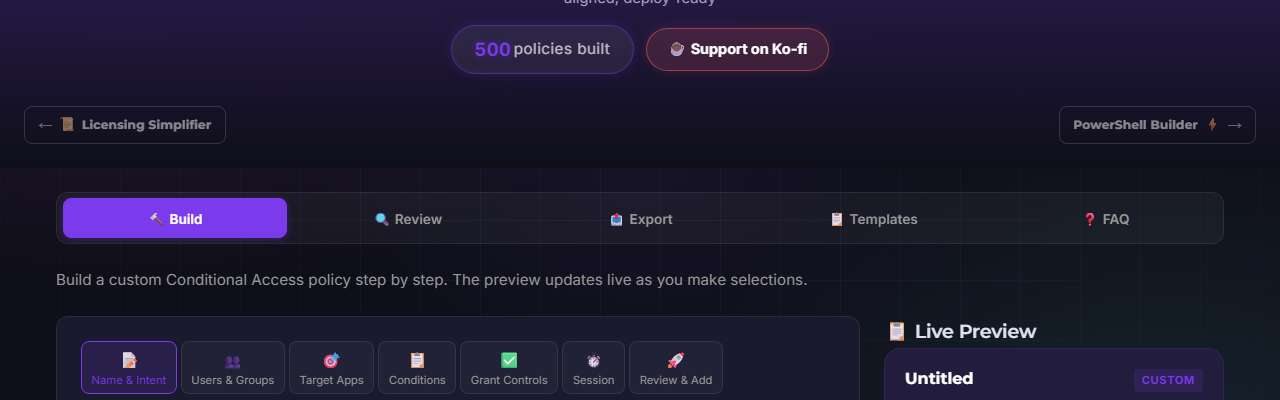
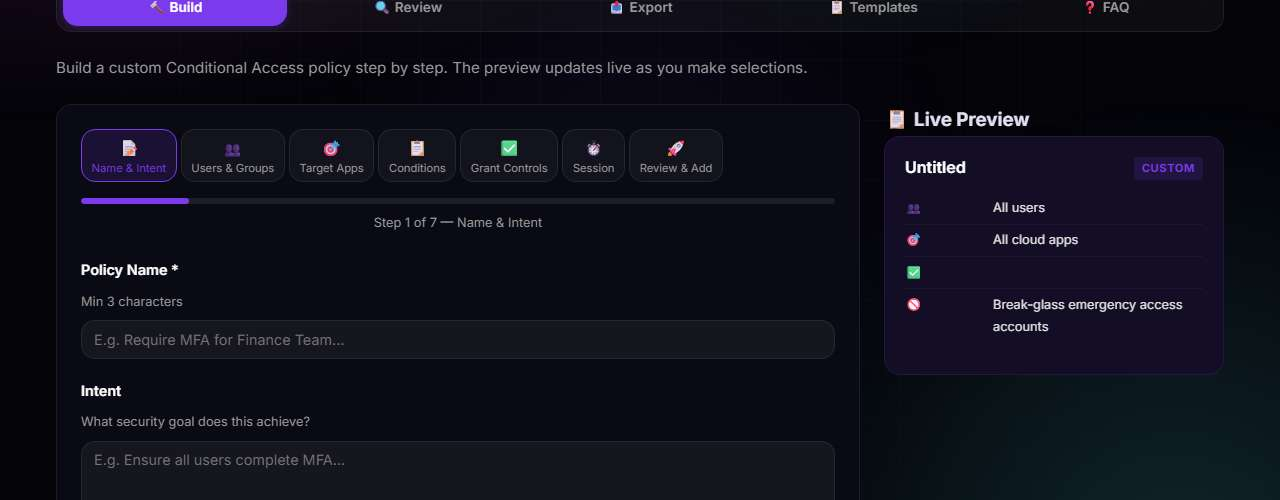
Final polish: stacked card layers, shorter cards, frosted filter bar, smarter screenshots
Screenshots:
- Recaptured 26 tool previews at 420px crop (was 200px) — shows actual tool UI, not hero banner
- Screenshots expand with flex:1 to fill card bottom

Stacked layers effect:
- 2 pseudo-element 'tab' layers behind each screenshot
- 3D perspective tilt (6deg rotateX), reduces on hover
- Accent-colored borders on layers match tool color
- Bottom gradient fade to black

Card height:
- Reduced 360px → 300px (SVG art removed, no wasted space)

Filter bar:
- Frosted glass (backdrop-filter blur 16px) instead of solid black
- Brighter border + drop shadow + inset highlight
- Active indicator: stronger glass + shadow
- Pill text bumped to 0.55 opacity

diff --git a/static/css/style.css b/static/css/style.css
@@ -506,13 +506,16 @@ a:hover {
   gap: 0.25rem;
   padding: 5px;
   margin-bottom: 1.8rem;
-  background: rgba(0, 0, 0, 0.6);
-  border: 1px solid rgba(255, 255, 255, 0.06);
+  background: rgba(255, 255, 255, 0.04);
+  -webkit-backdrop-filter: blur(16px);
+  backdrop-filter: blur(16px);
+  border: 1px solid rgba(255, 255, 255, 0.1);
   border-radius: 50px;
   position: relative;
   overflow-x: auto;
   scrollbar-width: none;
   -webkit-overflow-scrolling: touch;
+  box-shadow: 0 2px 20px rgba(0, 0, 0, 0.4), inset 0 1px 0 rgba(255, 255, 255, 0.06);
 }
 .hp-ray-filters::-webkit-scrollbar { display: none; }
 .hp-ray-indicator {
@@ -521,8 +524,9 @@ a:hover {
   left: 0;
   height: calc(100% - 10px);
   border-radius: 50px;
-  background: rgba(255, 255, 255, 0.1);
-  border: 1px solid rgba(255, 255, 255, 0.12);
+  background: rgba(255, 255, 255, 0.12);
+  border: 1px solid rgba(255, 255, 255, 0.15);
+  box-shadow: 0 1px 8px rgba(0, 0, 0, 0.3);
   pointer-events: none;
   z-index: 0;
 }
@@ -537,7 +541,7 @@ a:hover {
   border-radius: 50px;
   border: none;
   background: transparent;
-  color: rgba(255, 255, 255, 0.45);
+  color: rgba(255, 255, 255, 0.55);
   font-family: var(--font-heading);
   font-weight: 600;
   font-size: 0.88rem;
@@ -638,7 +642,7 @@ a:hover {
   display: flex;
   flex-direction: column;
   padding: 1.5rem 1.4rem 1.2rem;
-  min-height: 360px;
+  min-height: 300px;
   text-decoration: none;
   color: inherit;
   border-radius: 20px;
@@ -709,25 +713,77 @@ a:hover {
   position: relative;
   margin-top: 0.8rem;
   pointer-events: none;
-  overflow: hidden;
-  border-radius: 16px;
+  overflow: visible;
   flex: 1;
+  perspective: 500px;
+  padding-top: 16px;
+}
+.hp-ray-visual-inner {
+  position: relative;
+  border-radius: 10px;
+  overflow: hidden;
+  border: 1px solid color-mix(in srgb, var(--ray-color) 25%, transparent);
+  transition: border-color 0.3s, transform 0.4s;
+  transform: rotateX(6deg) rotateY(-3deg);
+  transform-origin: center bottom;
+  z-index: 3;
+}
+.hp-ray-card:hover .hp-ray-visual-inner {
+  border-color: color-mix(in srgb, var(--ray-color) 50%, transparent);
+  transform: rotateX(3deg) rotateY(-1.5deg);
+}
+/* Layer 1 — closest behind */
+.hp-ray-visual-inner::before {
+  content: '';
+  position: absolute;
+  top: -10px; left: 12px; right: 12px;
+  height: 12px;
+  border-radius: 10px 10px 0 0;
+  background: color-mix(in srgb, var(--ray-color) 15%, rgba(255,255,255,0.05));
+  border: 1px solid color-mix(in srgb, var(--ray-color) 20%, transparent);
+  border-bottom: none;
+  z-index: 2;
+}
+/* Layer 2 — furthest back */
+.hp-ray-visual::before {
+  content: '';
+  position: absolute;
+  top: 0; left: 22px; right: 22px;
+  height: 10px;
+  border-radius: 8px 8px 0 0;
+  background: color-mix(in srgb, var(--ray-color) 8%, rgba(255,255,255,0.03));
+  border: 1px solid color-mix(in srgb, var(--ray-color) 12%, transparent);
+  border-bottom: none;
+  z-index: 1;
+  transform: rotateX(6deg) rotateY(-3deg);
+  transform-origin: center bottom;
+}
+.hp-ray-visual-inner::after {
+  content: '';
+  position: absolute;
+  bottom: 0; left: 0; right: 0;
+  height: 30%;
+  background: linear-gradient(to top, #000 0%, transparent 100%);
+  pointer-events: none;
+  z-index: 4;
 }
 .hp-ray-preview {
   width: 100%;
   height: 100%;
-  min-height: 140px;
+  min-height: 160px;
   object-fit: cover;
   object-position: center top;
-  border-radius: 16px;
+  border-radius: 9px;
   opacity: 0.55;
-  filter: brightness(0.95) saturate(0.85);
-  transition: opacity 0.4s ease, filter 0.4s ease;
+  filter: brightness(0.9) saturate(0.85);
+  transition: opacity 0.4s ease, filter 0.4s ease, transform 0.4s ease;
   display: block;
+  transform: scale(1.02);
 }
 .hp-ray-card:hover .hp-ray-preview {
-  opacity: 0.75;
+  opacity: 0.85;
   filter: brightness(1) saturate(1);
+  transform: scale(1.06);
 }
 .hp-ray-abstract {
   margin-top: auto;

diff --git a/layouts/index.html b/layouts/index.html
@@ -65,7 +65,9 @@
             </div>
             <p class="hp-ray-desc">{{ .desc }}</p>
             <div class="hp-ray-visual" aria-hidden="true">
-              <img class="hp-ray-preview" src="/images/tool-previews/{{ $slug }}.jpg" alt="" loading="lazy" decoding="async">
+              <div class="hp-ray-visual-inner">
+                <img class="hp-ray-preview" src="/images/tool-previews/{{ $slug }}.jpg" alt="" loading="lazy" decoding="async">
+              </div>
             </div>
           </a>
           {{ end }}

diff --git a/scripts/capture-tool-previews.py b/scripts/capture-tool-previews.py
@@ -41,10 +41,10 @@ TOOLS = [
 ]
 
 WIDTH = 1280
-HEIGHT = 900
-# Crop: skip the hero area (top ~200px), capture the tool content below
-CROP_TOP = 200
-CROP_HEIGHT = 400
+HEIGHT = 1200
+# Crop: skip hero + tabs area (~420px), capture the actual tool content
+CROP_TOP = 420
+CROP_HEIGHT = 500
 
 def main():
     with sync_playwright() as p:
